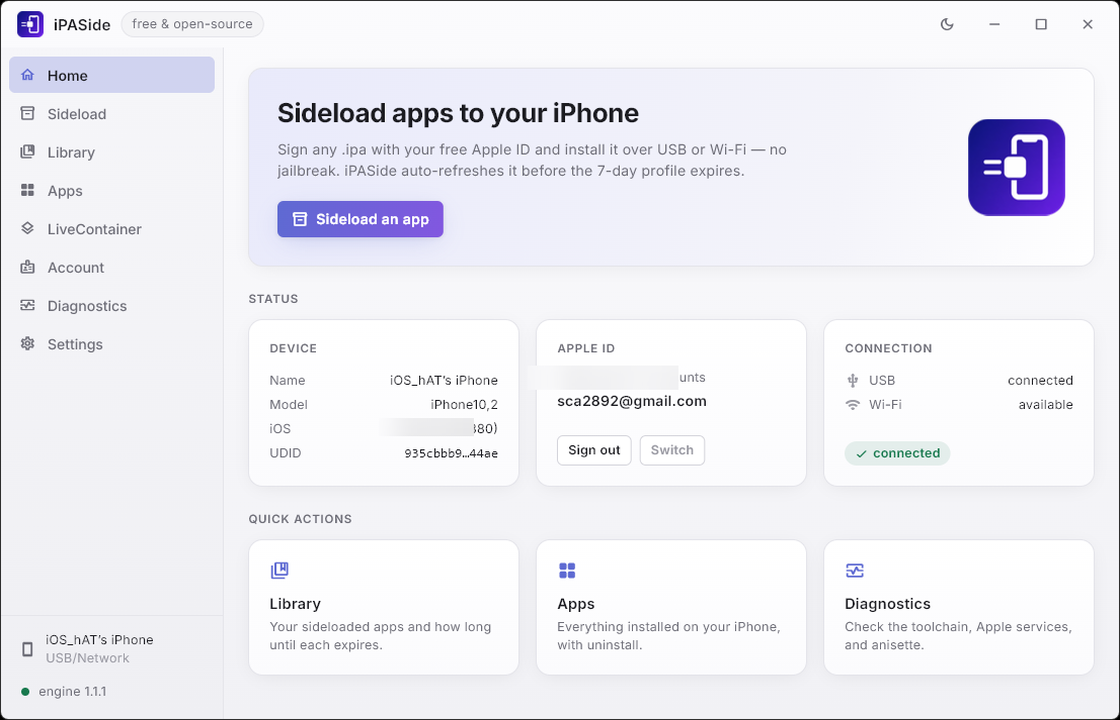
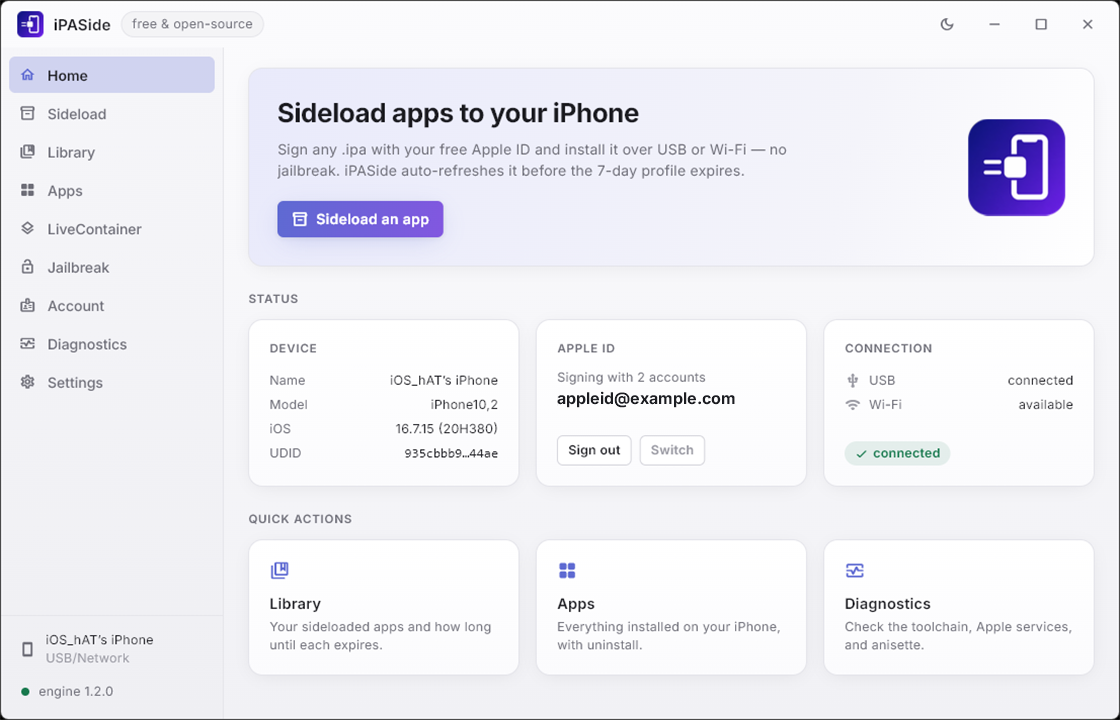
docs: refresh screenshots for 1.2.0 and add the Jailbreak tab
Retook every app screenshot from the installed 1.2.0 build so the sidebar shows
the new Jailbreak entry (engine 1.2.0), added a Jailbreak screenshot and a README
blurb for it, and replaced the signed-in Apple ID name/email with placeholder
values (appleid@example.com / Alex Appleseed) in the Home and Account shots.

diff --git a/README.md b/README.md
@@ -74,6 +74,12 @@ plan around.
 
 ![LiveContainer](docs/screenshots/livecontainer.png)
 
+**Jailbreak** — iPASide checks whether Dopamine supports your iPhone's chip and iOS,
+then installs the latest release in one press. It is an ordinary sideload; the
+jailbreak itself only runs on your phone the first time you open Dopamine.
+
+![Jailbreak](docs/screenshots/jailbreak.png)
+
 **Account** — every certificate on your Apple ID and which tool registered it, so you
 can tidy up without breaking something you did not know was there.
 
